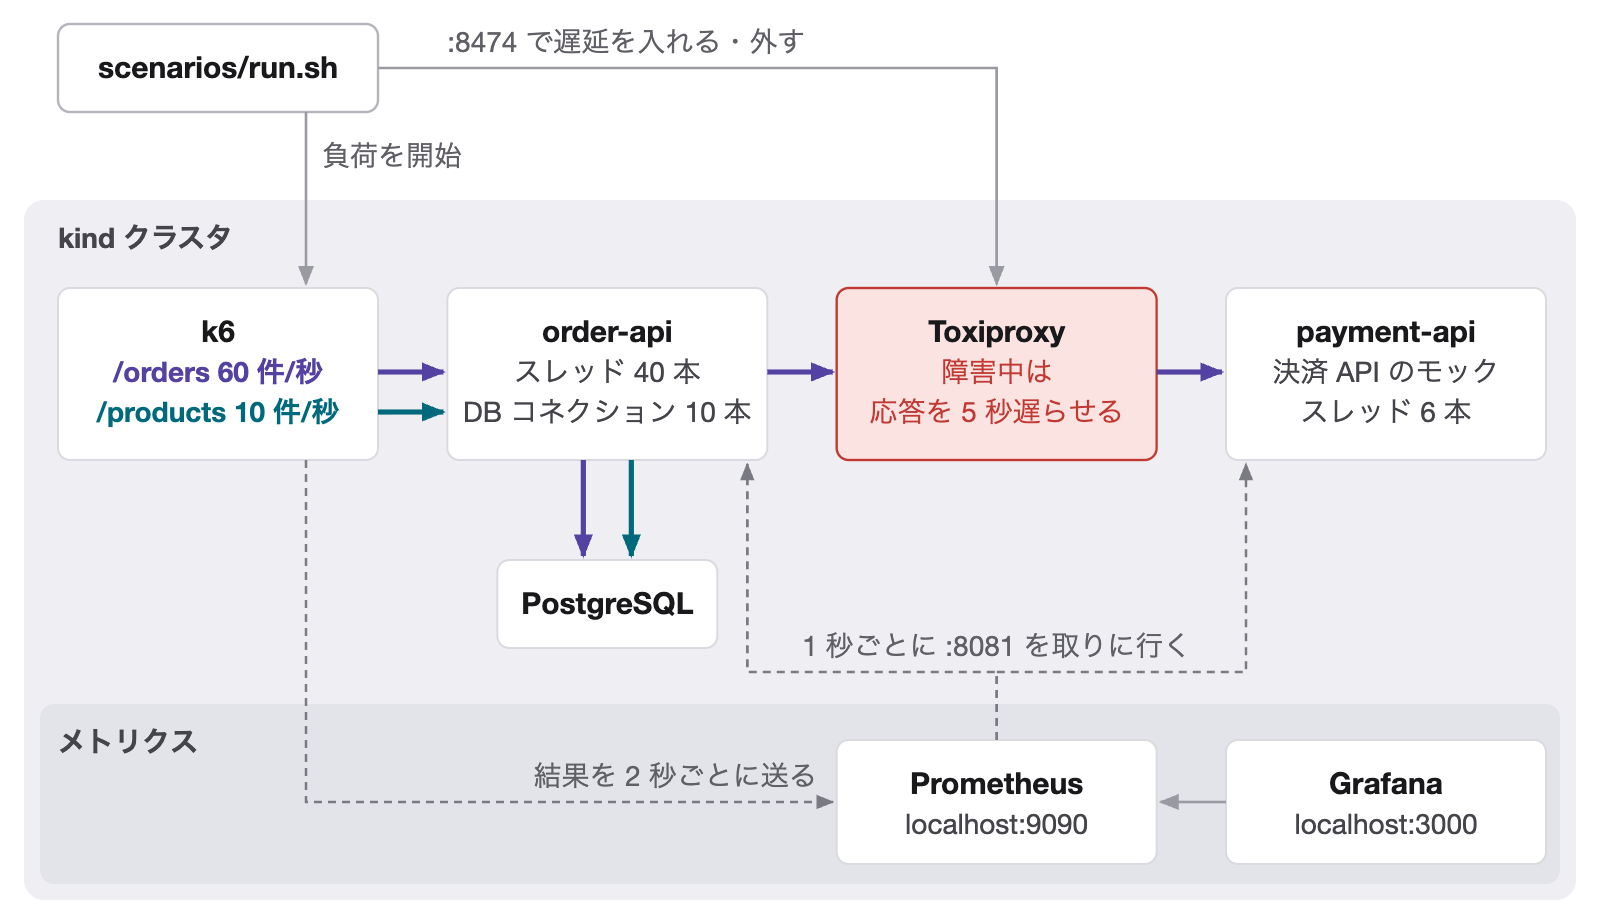
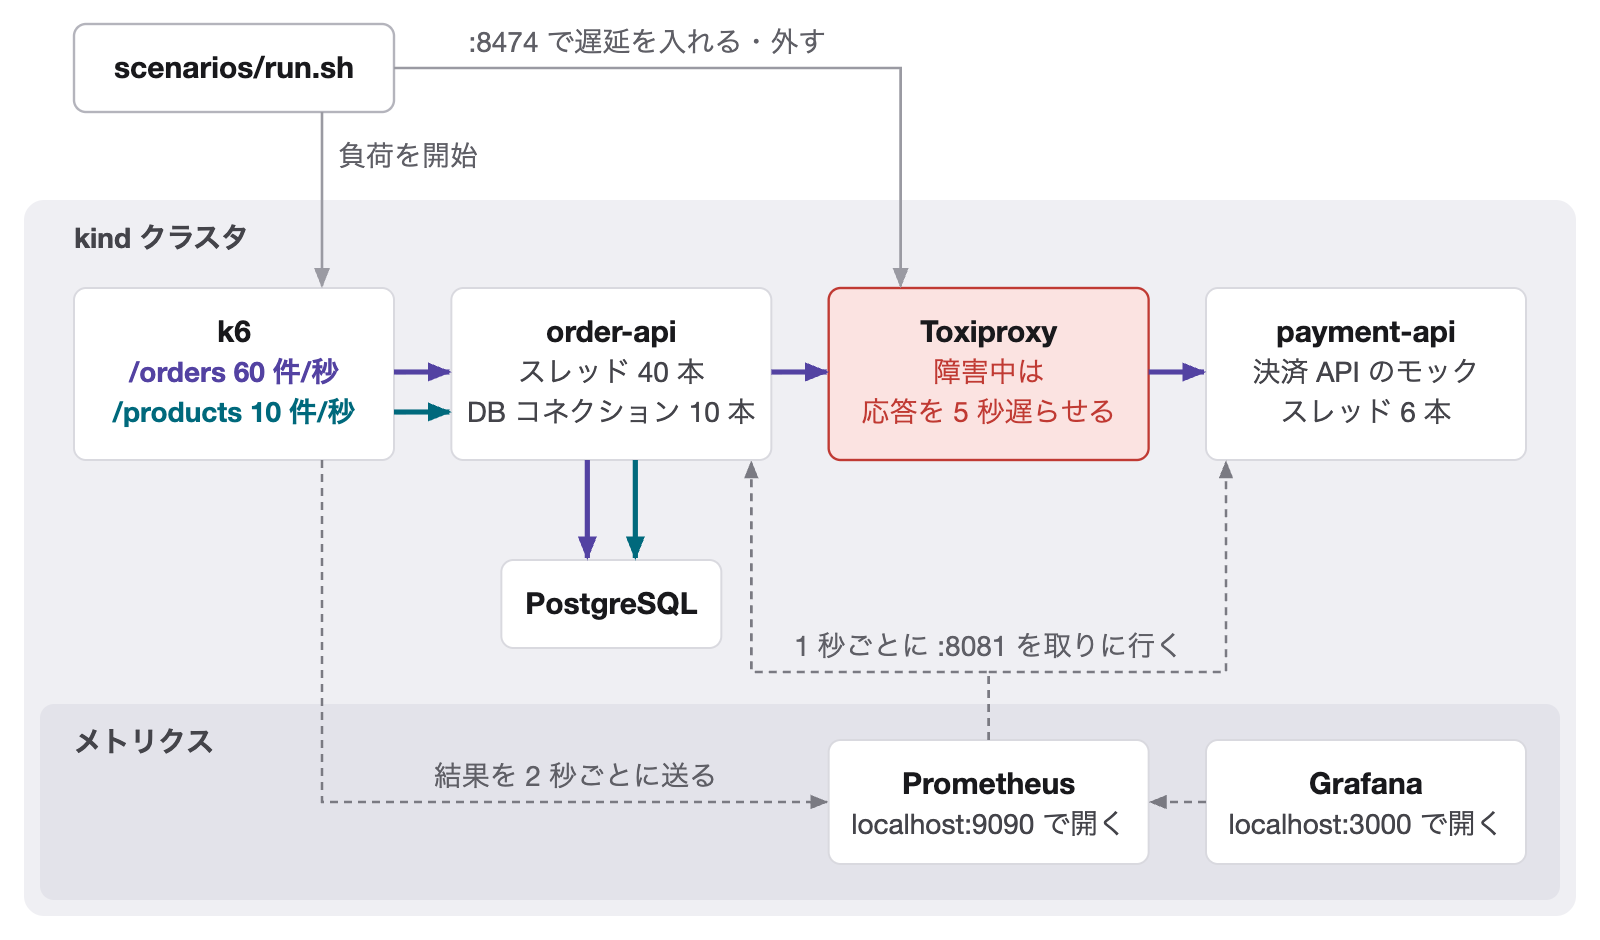
Architecture figure: even margins in the metrics band, one rule for line labels
From the fourth aesthetic round: the grid moves 8 px in so cards keep the
same margin inside the inset band, Grafana's query is dotted like the rest
of the metrics lines, arrowheads touch the cards, labels sit centred above
horizontal segments, the delay line enters Toxiproxy off its centre axis,
and the Prometheus/Grafana cards say they open on localhost.

diff --git a/tools/diagrams/architecture.html b/tools/diagrams/architecture.html
@@ -26,12 +26,13 @@
   }
 
   // 格子：幅 148・148・148・194、間 35。上段のカードは 3 行で高さをそろえる
-  const X0 = 29, W = [160, 160, 160, 160], G = (744 - 640) / 3;
+  // 格子は面の縁から 25px 内側。入れ子の帯（面の縁から 8px）の中でも、カードの周りに 17px 前後の余白が残る
+  const X0 = 37, W = [160, 160, 160, 160], G = (726 - 640) / 3;
   const cx = [X0];
   for (let i = 1; i < 4; i++) cx.push(cx[i - 1] + W[i - 1] + G);
   const PX = 12, PY = 100, PW = 776;
 
-  const Y1 = PY + 44, H1 = 86, CH = Y1 + H1 + 26, DBY = CH + 24, BY = DBY + 44 + 28, Y3 = BY + 18, H3 = 62, PH = Y3 + H3 + 18 - PY;
+  const Y1 = PY + 44, H1 = 86, CH = Y1 + H1 + 26, DBY = CH + 24, BY = DBY + 44 + 28, Y3 = BY + 18, H3 = 62, PH = Y3 + H3 + 26 - PY;
   // クラスタ（面）。カードより先に描く
   el(svg, 'rect', { class: 'pool', x: PX, y: PY, width: PW, height: PH, rx: 10 });
   // 見出しは 2 つとも左上。run.sh からの矢印は k6 の右寄り（kx）に入れて、見出しと交わらないようにする
@@ -55,37 +56,40 @@
 
   // 要求：k6 の色つきの行から、その色の線を出す。紫（/orders）だけが決済 API まで続く
   const yo = Y1 + 27 + 20 - 5, yp = yo + 20;
-  el(svg, 'line', { class: 'ln ord req main', x1: k6.r, y1: yo, x2: order.x - 2, y2: yo, 'marker-end': 'url(#h-ord)' });
-  el(svg, 'line', { class: 'ln prd req main', x1: k6.r, y1: yp, x2: order.x - 2, y2: yp, 'marker-end': 'url(#h-prd)' });
-  el(svg, 'line', { class: 'ln ord req main', x1: order.r, y1: yo, x2: toxi.x - 2, y2: yo, 'marker-end': 'url(#h-ord)' });
-  el(svg, 'line', { class: 'ln ord req main', x1: toxi.r, y1: yo, x2: pay.x - 2, y2: yo, 'marker-end': 'url(#h-ord)' });
+  el(svg, 'line', { class: 'ln ord req main', x1: k6.r, y1: yo, x2: order.x - 1, y2: yo, 'marker-end': 'url(#h-ord)' });
+  el(svg, 'line', { class: 'ln prd req main', x1: k6.r, y1: yp, x2: order.x - 1, y2: yp, 'marker-end': 'url(#h-prd)' });
+  el(svg, 'line', { class: 'ln ord req main', x1: order.r, y1: yo, x2: toxi.x - 1, y2: yo, 'marker-end': 'url(#h-ord)' });
+  el(svg, 'line', { class: 'ln ord req main', x1: toxi.r, y1: yo, x2: pay.x - 1, y2: yo, 'marker-end': 'url(#h-ord)' });
 
   // DB（order-api の真下）
   // /orders も /products も DB を使うので、k6 からの線と同じ色の 2 本で引く
   const db = card(order.cx - 55, DBY, 110, 44, [['name', 'PostgreSQL']]);
-  el(svg, 'line', { class: 'ln ord req main', x1: order.cx - 12, y1: order.b, x2: order.cx - 12, y2: db.y - 2, 'marker-end': 'url(#h-ord)' });
-  el(svg, 'line', { class: 'ln prd req main', x1: order.cx + 12, y1: order.b, x2: order.cx + 12, y2: db.y - 2, 'marker-end': 'url(#h-prd)' });
+  el(svg, 'line', { class: 'ln ord req main', x1: order.cx - 12, y1: order.b, x2: order.cx - 12, y2: db.y - 1, 'marker-end': 'url(#h-ord)' });
+  el(svg, 'line', { class: 'ln prd req main', x1: order.cx + 12, y1: order.b, x2: order.cx + 12, y2: db.y - 1, 'marker-end': 'url(#h-prd)' });
 
   // 観測：Prometheus と Grafana（Grafana が Prometheus に問い合わせる）
-  const prom = card(cx[2], Y3, W[2], H3, [['name', 'Prometheus'], ['small', 'localhost:9090']]);
-  const graf = card(cx[3], Y3, W[3], H3, [['name', 'Grafana'], ['small', 'localhost:3000']]);
-  el(svg, 'line', { class: 'ln thin ctl', x1: graf.x, y1: prom.cy, x2: prom.r + 2, y2: prom.cy, 'marker-end': 'url(#h-ctl)' });
+  const prom = card(cx[2], Y3, W[2], H3, [['name', 'Prometheus'], ['small', tr('localhost:9090 で開く', 'open localhost:9090')]]);
+  const graf = card(cx[3], Y3, W[3], H3, [['name', 'Grafana'], ['small', tr('localhost:3000 で開く', 'open localhost:3000')]]);
+  // Grafana が Prometheus に問い合わせる（観測系なので点線）
+  el(svg, 'line', { class: 'ln met', x1: graf.x, y1: prom.cy, x2: prom.r + 1, y2: prom.cy, 'marker-end': 'url(#h-met)' });
 
   // メトリクス：Prometheus から 1 本出て T 字に分かれ、order-api と payment-api の 8081 番を取りに行く。k6 は自分から送る
   // T 字の分かれ目は帯のすぐ上まで下げ、幹を短くする（Toxiproxy から離して、Toxiproxy を監視しているように読ませない）。左右は対称
   const TY = BY - 16, dl = order.r - 10, dr = pay.x + 10;
-  el(svg, 'path', { class: 'ln met', d: `M${prom.cx} ${prom.y} V${TY} H${dl} V${order.b + 2}`, 'marker-end': 'url(#h-met)' });
-  el(svg, 'path', { class: 'ln met', d: `M${prom.cx} ${TY} H${dr} V${pay.b + 2}`, 'marker-end': 'url(#h-met)' });
+  el(svg, 'path', { class: 'ln met', d: `M${prom.cx} ${prom.y} V${TY} H${dl} V${order.b + 1}`, 'marker-end': 'url(#h-met)' });
+  el(svg, 'path', { class: 'ln met', d: `M${prom.cx} ${TY} H${dr} V${pay.b + 1}`, 'marker-end': 'url(#h-met)' });
   text(svg, prom.cx, TY - 8, 'note mid', tr('1 秒ごとに :8081 を取りに行く', 'scrapes :8081 every second'));
   const kx = k6.r - 36;
-  el(svg, 'path', { class: 'ln met', d: `M${kx} ${k6.b} V${prom.cy} H${prom.x - 2}`, 'marker-end': 'url(#h-met)' });
-  text(svg, prom.x - 10, prom.cy - 8, 'note end', tr('結果を 2 秒ごとに送る', 'pushes results every 2 s'));
+  el(svg, 'path', { class: 'ln met', d: `M${kx} ${k6.b} V${prom.cy} H${prom.x - 1}`, 'marker-end': 'url(#h-met)' });
+  text(svg, (kx + prom.x) / 2, prom.cy - 8, 'note mid', tr('結果を 2 秒ごとに送る', 'pushes results every 2 s'));
 
   // run.sh からの操作
-  el(svg, 'line', { class: 'ln thin ctl', x1: kx, y1: host.b, x2: kx, y2: k6.y - 2, 'marker-end': 'url(#h-ctl)' });
+  el(svg, 'line', { class: 'ln thin ctl', x1: kx, y1: host.b, x2: kx, y2: k6.y - 1, 'marker-end': 'url(#h-ctl)' });
   text(svg, kx + 8, (host.b + PY) / 2 + 5, 'note', tr('負荷を開始', 'starts the load'));
-  el(svg, 'path', { class: 'ln thin ctl', d: `M${host.r} ${host.cy} H${toxi.cx} V${toxi.y - 2}`, 'marker-end': 'url(#h-ctl)' });
-  text(svg, cx[1], host.cy - 8, 'note', tr(':8474 で遅延を入れる・外す', 'adds / removes the delay via :8474'));
+  // Toxiproxy には中心から外して入れる（Prometheus からの点線と同じ縦の軸に乗せない）
+  const ex = toxi.x + 36;
+  el(svg, 'path', { class: 'ln thin ctl', d: `M${host.r} ${host.cy} H${ex} V${toxi.y - 1}`, 'marker-end': 'url(#h-ctl)' });
+  text(svg, (host.r + ex) / 2, host.cy - 8, 'note mid', tr(':8474 で遅延を入れる・外す', 'adds / removes the delay via :8474'));
 
   canvas(svg, 800, PY + PH + 12);
 </script>
